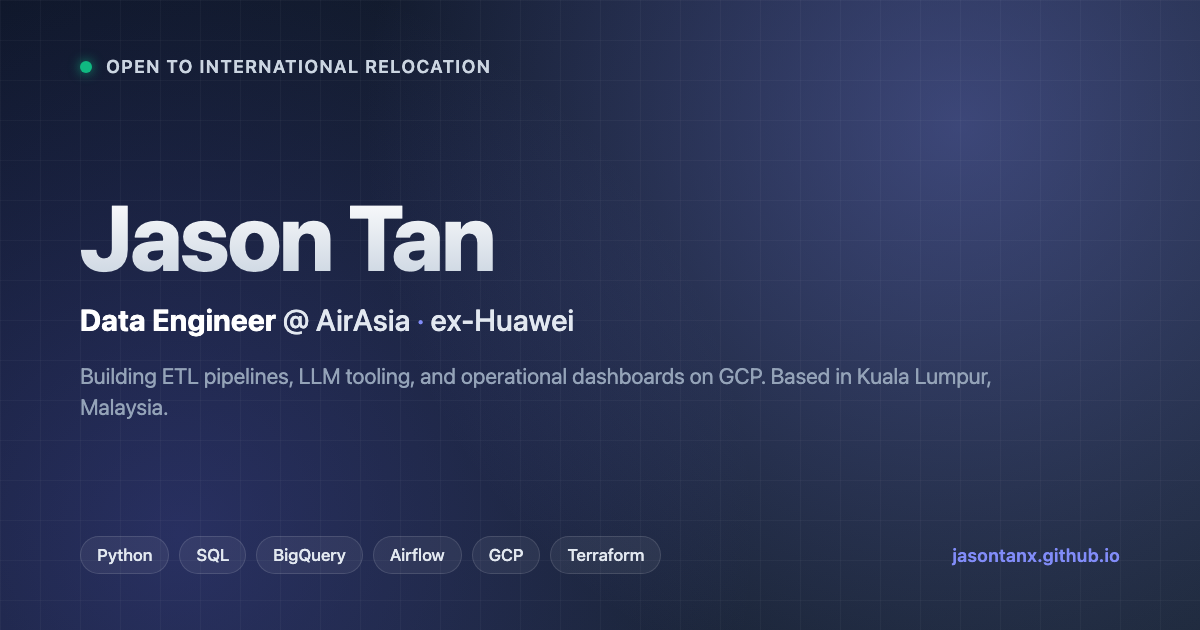
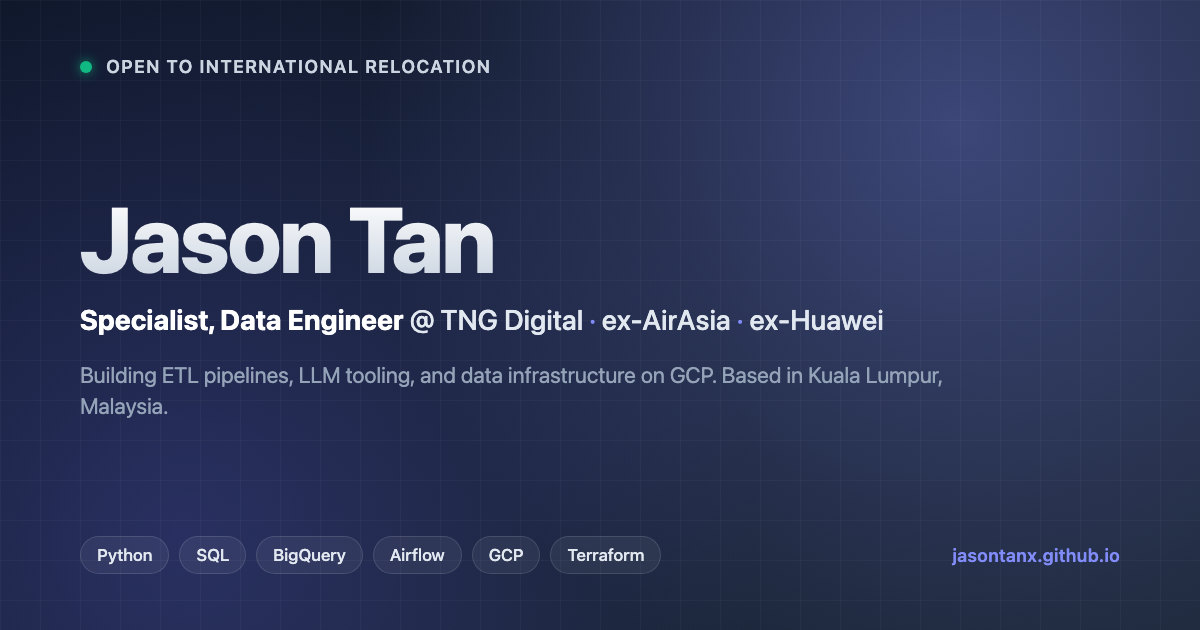
feat: migrate to TNG Digital (Specialist, Data Engineer) and surface email
- Add TNG Digital as current role across hero, career page, about timeline,
  and meta descriptions. Note Nadi Tech subsidiary in body copy.
- Mark AirAsia as past role (August 2022 – April 2026) and add a "wrapped"
  milestone in the timeline.
- Regenerate OG preview image with new role and trajectory.
- Surface email address visibly under the hero CTAs as a fallback for
  visitors without a configured mailto handler.

diff --git a/src/content/about.md b/src/content/about.md
@@ -19,9 +19,15 @@ Same story at work. Most of 2021 was work-from-home. Hybrid arrangements followe
 <div class="timeline">
 
 <div class="timeline-item present">
-<span class="timeline-year">2026 · Present</span>
-<h4><img src="/images/logos/airasia.webp" alt="AirAsia logo" class="timeline-logo"> Data Engineer II · AirAsia</h4>
-<p>Continuing to ship operational data projects — pipelines, automation, and LLM tooling that put data in front of the people who use it.</p>
+<span class="timeline-year">May 2026 · Present</span>
+<h4><img src="/images/logos/tngd.png" alt="TNG Digital logo" class="timeline-logo"> Specialist, Data Engineer · TNG Digital</h4>
+<p>Joined via Nadi Tech Sdn Bhd, a wholly-owned subsidiary of TNG Digital focused on high-traffic B2B platform solutions and digital infrastructure.</p>
+</div>
+
+<div class="timeline-item">
+<span class="timeline-year">April 2026</span>
+<h4><img src="/images/logos/airasia.webp" alt="AirAsia logo" class="timeline-logo"> Wrapped at AirAsia</h4>
+<p>3.5 years building pipelines, LLM tooling, and operational dashboards. Time for the next step.</p>
 </div>
 
 <div class="timeline-item">

diff --git a/src/content/career-airasia.md b/src/content/career-airasia.md
@@ -1,6 +1,6 @@
 ## AirAsia — Data Engineer
 
-**Since August 2022.** Started as Data Engineer I, promoted to Data Engineer II in August 2024.
+**August 2022 – April 2026.** Joined as Data Engineer I, promoted to Data Engineer II in August 2024. 3.5 years building ETL pipelines, LLM tooling, and operational dashboards.
 
 <span class="tag">Python</span> <span class="tag">SQL</span> <span class="tag">BigQuery</span> <span class="tag">Postgres</span> <span class="tag">Airflow</span> <span class="tag">GCP</span> <span class="tag">Tableau</span> <span class="tag">LLM APIs (OpenAI / Gemini)</span>
 

diff --git a/src/content/career-tngd.md b/src/content/career-tngd.md
@@ -1,0 +1,7 @@
+## TNG Digital — Specialist, Data Engineer
+
+**Since May 2026.** Joined via Nadi Tech Sdn Bhd, a wholly-owned subsidiary of TNG Digital focused on high-traffic B2B platform solutions and digital infrastructure.
+
+TNG Digital operates Touch 'n Go eWallet — Malaysia's leading e-wallet platform, covering payments, transit, lifestyle services, and digital financial products.
+
+More on what I'm building here as projects ship.
